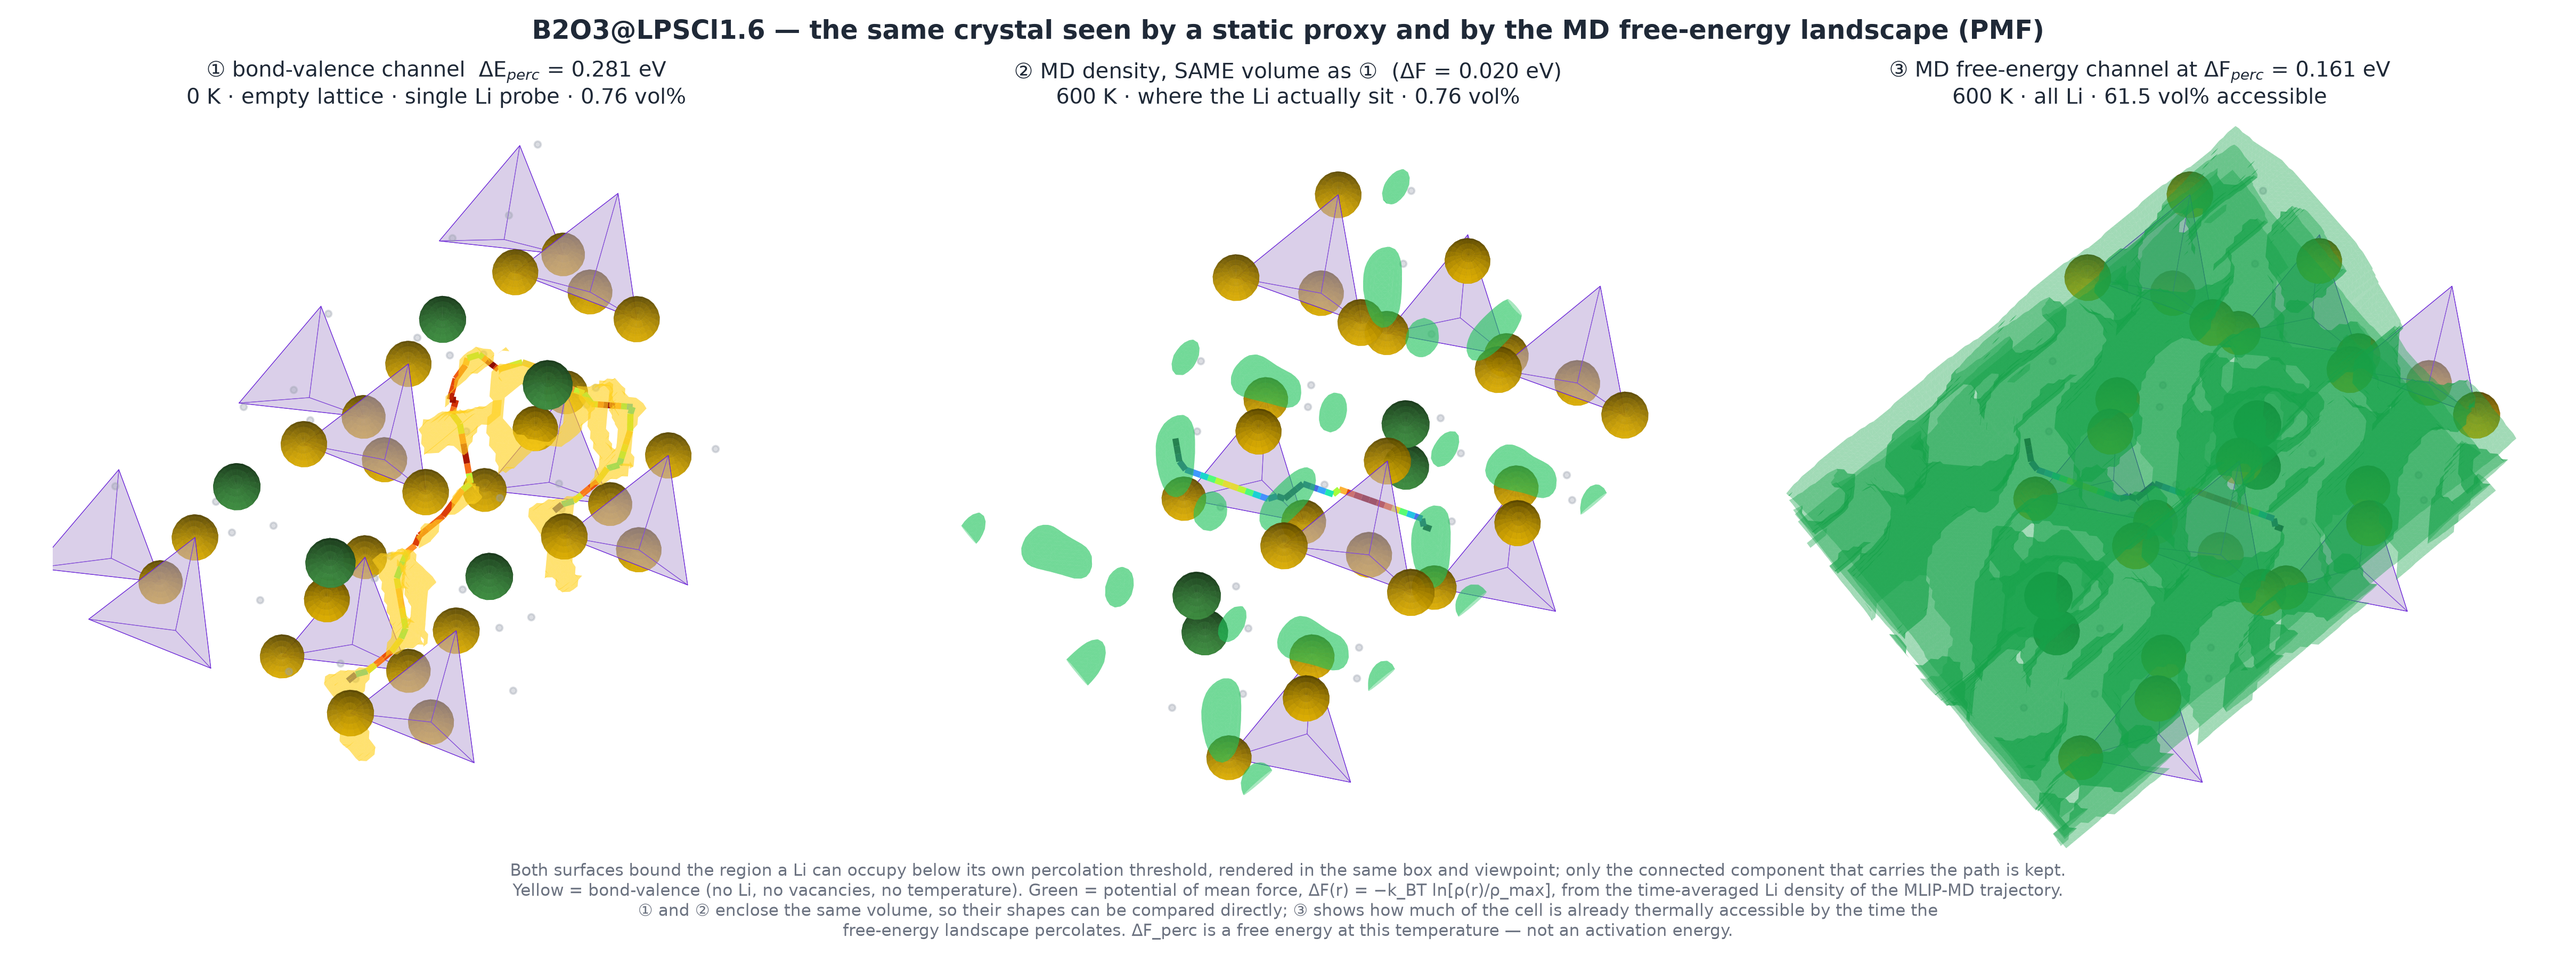
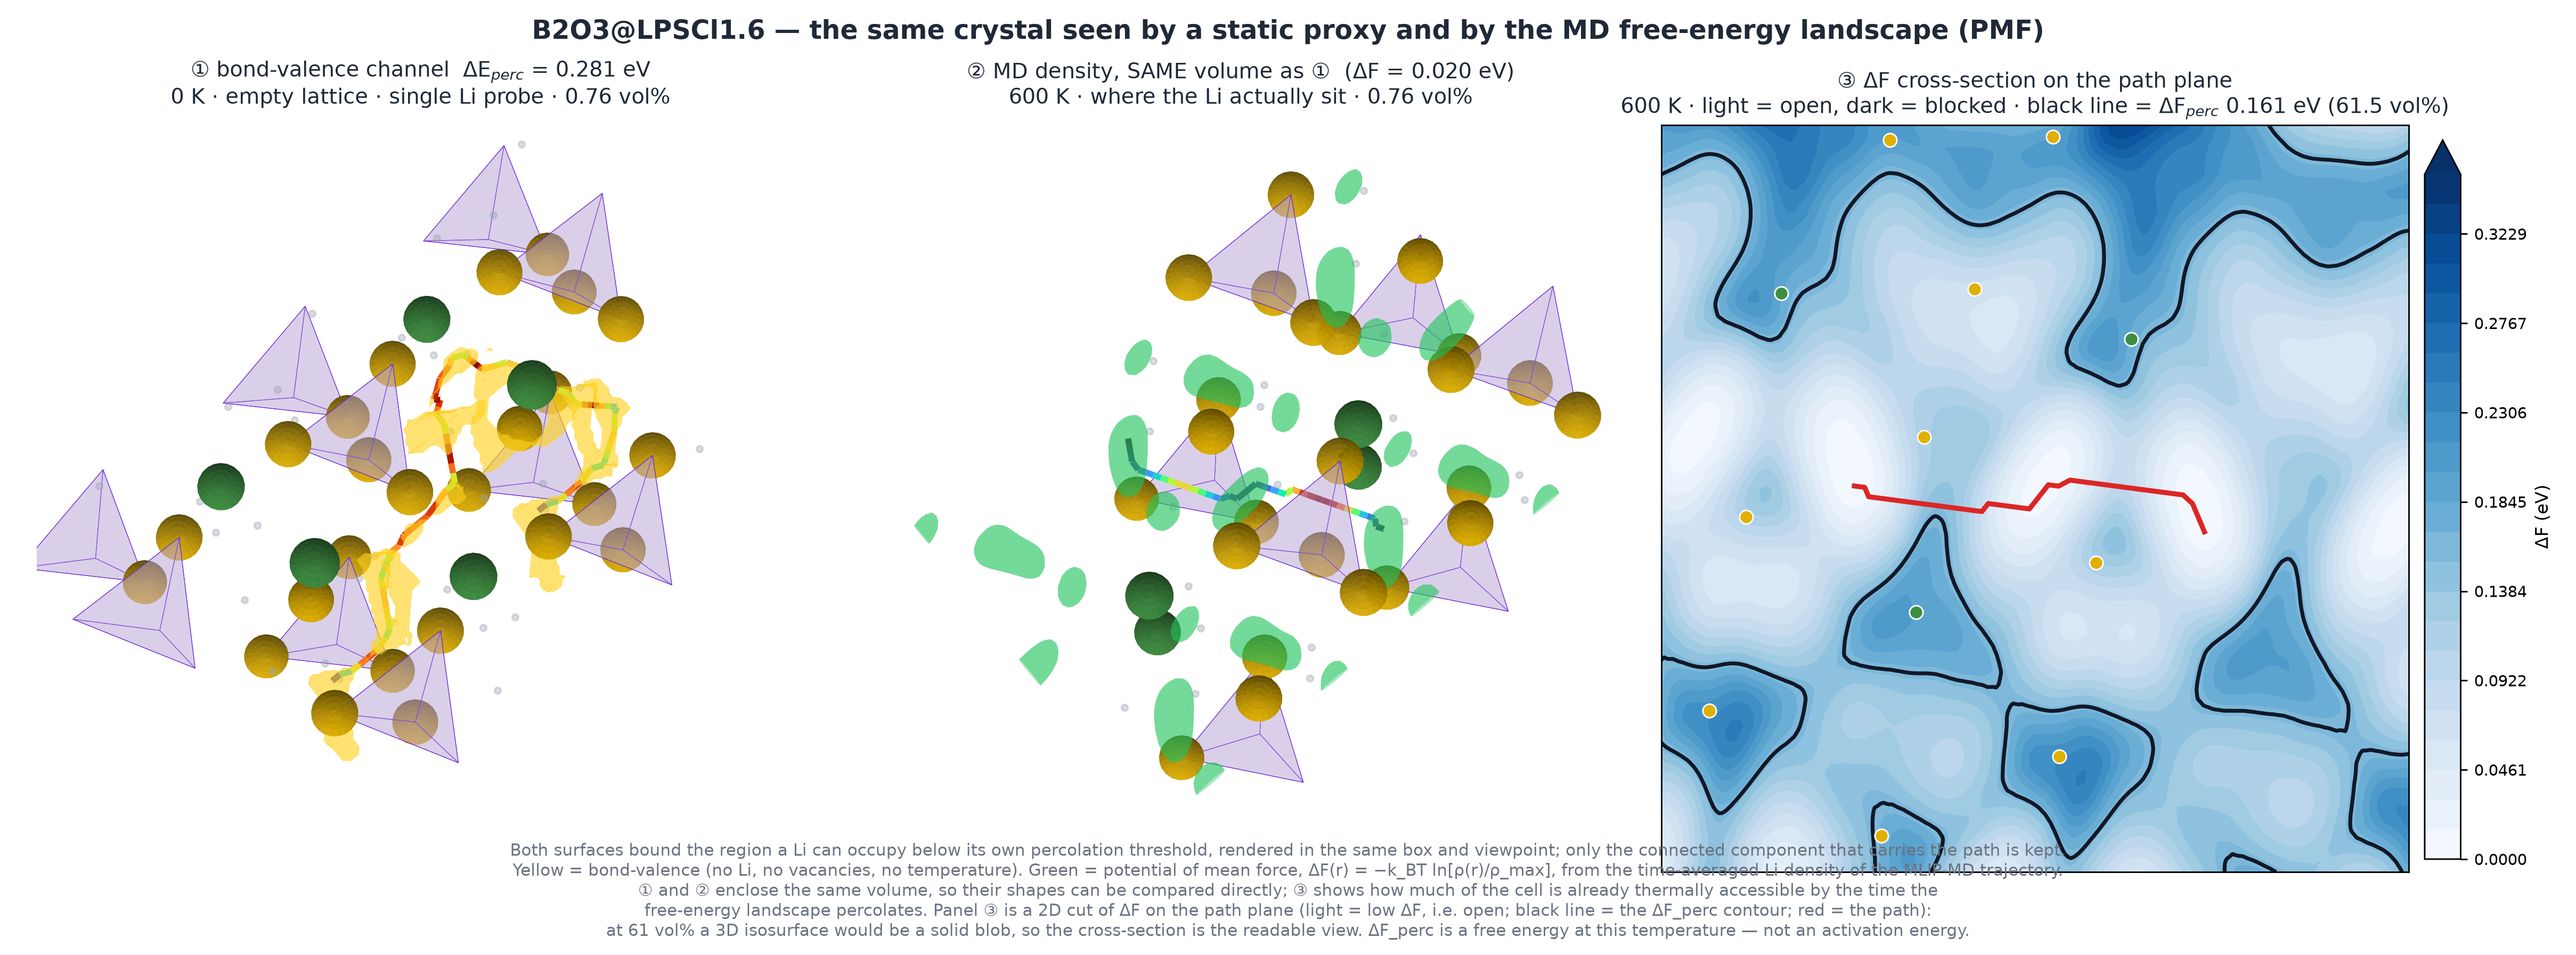
figures+webapp: 3D 패널3을 2D 단면 지도로(가독성) + 개념 첨부 날짜 구분

diff --git a/webapp/templates/concept.html b/webapp/templates/concept.html
@@ -40,8 +40,14 @@
 
 {% if imgs %}
 <div class="att-pane" id="att-img">
+  {% for grp in att_days %}
+  {% set gi = grp.files|selectattr('kind','equalto','image')|list %}
+  {% if gi %}
+  <div class="day-head"><span class="day-date">{{ grp.day }}</span>
+    <span class="day-rel">{{ grp.label }}</span>
+    <span class="muted" style="font-size:.72rem">{{ gi|length }}개</span></div>
   <div class="grid grid-3">
-  {% for f in imgs %}
+  {% for f in gi %}
     <div class="card att-card" data-rel="{{ f.rel }}" data-name="{{ f.name }}" data-kind="image">
       <div class="att-thumb"><img loading="lazy" src="/api/file/{{ f.rel }}" alt="{{ f.name }}"></div>
       <div class="att-meta">
@@ -57,13 +63,21 @@
     </div>
   {% endfor %}
   </div>
+  {% endif %}
+  {% endfor %}
 </div>
 {% endif %}
 
 {% if data %}
 <div class="att-pane" id="att-data" {% if imgs %}style="display:none"{% endif %}>
+  {% for grp in att_days %}
+  {% set gd = grp.files|rejectattr('kind','equalto','image')|list %}
+  {% if gd %}
+  <div class="day-head"><span class="day-date">{{ grp.day }}</span>
+    <span class="day-rel">{{ grp.label }}</span>
+    <span class="muted" style="font-size:.72rem">{{ gd|length }}개</span></div>
   <div class="grid grid-3">
-  {% for f in data %}
+  {% for f in gd %}
     <div class="card att-card" data-rel="{{ f.rel }}" data-name="{{ f.name }}" data-kind="{{ f.kind }}">
       <div class="att-icon">{{ '📊' if f.kind=='csv' else ('📕' if f.kind=='pdf' else '📦') }}</div>
       <div class="att-meta">
@@ -74,6 +88,8 @@
     </div>
   {% endfor %}
   </div>
+  {% endif %}
+  {% endfor %}
 </div>
 {% endif %}
 

diff --git a/tools/figures/fig_bv_vs_pmf_3d.py b/tools/figures/fig_bv_vs_pmf_3d.py
@@ -57,9 +57,28 @@ def keep_component(V, thr, seeds, lo, step, n):
     return np.where(mask, V, thr + 1.0), float(mask.mean())
 
 
-def draw(ax, verts, faces, atoms, cages, mic, shifts, lo, hi, path, e, color, view):
+def slab(V, big, nrm, lo, span, n, thick=5.0):
+    """**시선 방향으로 얇은 단면**만 남긴다 (통짜 덩어리 → 채널 단면).
+
+    ⚠ 왜 (2026-08-06, 1저자 지적 2회): 문턱에서 채널이 셀의 60~75% 라 등가면을 통째로
+      그리면 초록 덩어리가 되어 아무 정보가 없다. 모서리 도려내기(cutaway)도 잘린 면이
+      메시처럼 보여 실패. **시선 법선 방향 ±thick/2 슬랩**만 남기면 채널이 어떻게
+      이어지고 골격이 어디를 막는지가 단면으로 드러난다 (토모그래피 관례).
+    """
+    V = V.copy()
+    g = np.stack(np.meshgrid(*[np.linspace(lo[d], lo[d] + span[d], n[d])
+                               for d in range(3)], indexing="ij"), -1)
+    c = lo + span / 2
+    w = (g - c) @ nrm                       # 시선 법선 성분
+    V[np.abs(w) > thick / 2] = big
+    return V
+
+
+def draw(ax, verts, faces, atoms, cages, mic, shifts, lo, hi, path, e, color, view,
+         edge="none", alpha=0.40):
     ax.add_collection3d(Poly3DCollection(verts[faces], facecolor=color,
-                                         edgecolor="none", alpha=0.40, zsort="average"))
+                                         edgecolor=edge, lw=0.15, alpha=alpha,
+                                         zsort="average"))
     for i, (s, p) in enumerate(atoms):
         if s == "P":
             lig = [p + mic(q - p) for t, q in atoms
@@ -107,6 +126,7 @@ def main():
     ap.add_argument("--disp", default="LPSCl1.6")
     ap.add_argument("--pad", type=float, default=2.4)
     ap.add_argument("--nvox", type=int, default=110)
+
     ap.add_argument("--maxbox", type=float, default=16.0,
                     help="상자 한 변 상한 (Å) — 길쭉한 셀에서 시야 확보")
     ap.add_argument("--out", default="docs/figures/bv_vs_pmf_3d_modelc.png")
@@ -173,9 +193,9 @@ def main():
           f"(BV 채널 {100*fE:.2f}%) — 성분 필터 없음(고립 자리 표시)")
 
     vE, faE, _n, _v = marching_cubes(VE, level=rbv["E_perc"], spacing=tuple(step))
-    vF, faF, _n, _v = marching_cubes(VF, level=dFp, spacing=tuple(step))
+    vF = faF = None                          # 슬랩은 시선(nrm) 확정 후에 만든다
     vI, faI, _n, _v = marching_cubes(VFi, level=lvl_iso, spacing=tuple(step))
-    vE, vF, vI = vE + lo_bv, vF + lo, vI + lo
+    vE, vI = vE + lo_bv, vI + lo
 
     allp = rpm["cart"]
     c0 = allp.mean(0)
@@ -199,11 +219,37 @@ def main():
     ax2.set_title(f"② MD density, SAME volume as ①  (ΔF = {lvl_iso:.3f} eV)\n"
                   f"{a.T:.0f} K · where the Li actually sit · {100*fFi:.2f} vol%",
                   fontsize=11, color=INK)
-    ax3 = fig.add_subplot(1, 3, 3, projection="3d")
-    draw(ax3, vF, faF, atoms, cages, mic, shifts, lo, hi, rpm["cart"], rpm["e"],
-         "#16a34a", view)
-    ax3.set_title(f"③ MD free-energy channel at ΔF$_{{perc}}$ = {dFp:.3f} eV\n"
-                  f"{a.T:.0f} K · all Li · {100*fF:.1f} vol% accessible",
+    # ③ 2D 단면 지도 — 3D 등가면은 61 vol% 라 통짜 덩어리가 되어 정보가 없다
+    #   (2026-08-06 사용자 지적 2회: 통짜 → 도려내기(메시) → **단면 지도**로 확정).
+    #   경로 주평면 위 ΔF 를 색으로, ΔF_perc 등고선을 굵게, 경로를 겹친다.
+    ax3 = fig.add_subplot(1, 3, 3)
+    e1p, e2p = vt[0], vt[1]
+    gx = np.linspace(-span.max() / 2, span.max() / 2, 260)
+    GX, GY = np.meshgrid(gx, gx)
+    R = (c0 + GX[..., None] * e1p + GY[..., None] * e2p).reshape(-1, 3)
+    fr = (R @ np.linalg.inv(cell)) % 1.0
+    M = map_coordinates(F, (fr * np.array(F.shape)).T, order=1,
+                        mode="grid-wrap").reshape(GX.shape)
+    # 밝을수록 낮은 ΔF(= 열림), 어두울수록 막힘 — 초록 덧칠은 이중 부호화라 뺐다
+    im = ax3.contourf(GX, GY, M, levels=np.linspace(0, max(dFp * 2.2, 0.3), 24),
+                      cmap="Blues", extend="max")
+    ax3.contour(GX, GY, M, levels=[dFp], colors=["#111827"], linewidths=2.0)
+    P2 = (rpm["cart"] - c0) @ np.vstack([e1p, e2p]).T
+    ax3.plot(P2[:, 0], P2[:, 1], color="#dc2626", lw=2.6, zorder=5)
+    for s_, pp in atoms:                       # 평면 ±1.6 Å 안 음이온만
+        for sh in shifts:
+            v = pp + sh - c0
+            if abs(float(v @ vt[2])) > 1.6 or s_ in ("Li", "P"):
+                continue
+            x, y = float(v @ e1p), float(v @ e2p)
+            if abs(x) < span.max() / 2 and abs(y) < span.max() / 2:
+                ax3.plot(x, y, "o", ms=7, mfc=ATOM_C.get(s_, "#888"), mec="white", mew=0.8)
+    cb3 = fig.colorbar(im, ax=ax3, fraction=0.045, pad=0.02)
+    cb3.set_label("ΔF (eV)", fontsize=9); cb3.ax.tick_params(labelsize=8)
+    ax3.set_aspect("equal"); ax3.set_xticks([]); ax3.set_yticks([])
+    ax3.set_title(f"③ ΔF cross-section on the path plane\n"
+                  f"{a.T:.0f} K · light = open, dark = blocked · black line = "
+                  f"ΔF$_{{perc}}$ {dFp:.3f} eV ({100*fF:.1f} vol%)",
                   fontsize=11, color=INK)
 
     fig.suptitle(f"{a.disp} — the same crystal seen by a static proxy and by the "
@@ -217,7 +263,10 @@ def main():
              "from the time-averaged Li density of the MLIP-MD trajectory.\n"
              "① and ② enclose the same volume, so their shapes can be compared directly; "
              "③ shows how much of the cell is already thermally accessible by the time the\n"
-             "free-energy landscape percolates. ΔF_perc is a free energy at this temperature "
+             "free-energy landscape percolates. Panel ③ is a 2D cut of ΔF on the path plane "
+             "(light = low ΔF, i.e. open; black line = the ΔF_perc contour; red = the path):\n"
+             "at 61 vol% a 3D isosurface would be a solid blob, so the cross-section is the "
+             "readable view. ΔF_perc is a free energy at this temperature "
              "— not an activation energy.",
              ha="center", fontsize=8.6, color=MUT)
     fig.tight_layout(rect=[0, 0.055, 1, 0.95])

diff --git a/webapp/data.py b/webapp/data.py
@@ -2340,9 +2340,10 @@ def concept_attachments(cid: str) -> list[dict]:
             p = safe_repo_path(rel)
             if not p:
                 continue
-            out.append({"rel": rel, "name": p.name, "kind": _att_kind(rel),
-                        "src": "cited",
-                        "size_kb": round(p.stat().st_size / 1024, 1)})
+            st = p.stat()
+        out.append({"rel": rel, "name": p.name, "kind": _att_kind(rel), "src": "cited",
+                    "size_kb": round(st.st_size / 1024, 1), "mtime": int(st.st_mtime),
+                    "day": _dt.datetime.fromtimestamp(st.st_mtime).strftime("%Y-%m-%d")})
     for rel in _auto_matched(cid):                 # 규칙 자동 연결
         if rel in seen:
             continue
@@ -2350,8 +2351,10 @@ def concept_attachments(cid: str) -> list[dict]:
         if not p:
             continue
         seen.add(rel)
+        st = p.stat()
         out.append({"rel": rel, "name": p.name, "kind": _att_kind(rel), "src": "auto",
-                    "size_kb": round(p.stat().st_size / 1024, 1)})
+                    "size_kb": round(st.st_size / 1024, 1), "mtime": int(st.st_mtime),
+                    "day": _dt.datetime.fromtimestamp(st.st_mtime).strftime("%Y-%m-%d")})
 
     # 같은 이름 png ↔ csv 페어링 (하우스 관례: 그림과 Origin-ready CSV 가
     #   같은 stem — `_origin` 접미는 무시하고 비교). 페어된 CSV 는 이미지 카드에
@@ -2367,7 +2370,7 @@ def concept_attachments(cid: str) -> list[dict]:
                 host["pair"] = x
                 continue
         merged.append(x)
-    merged.sort(key=lambda x: (x["kind"] != "image", x["name"]))
+    merged.sort(key=lambda x: -x.get("mtime", 0))      # 최근순 (날짜 그룹용)
     return merged
 
 _UP_EXT = {".png", ".jpg", ".jpeg", ".svg", ".csv", ".json", ".xyz", ".vasp", ".cif", ".pdf"}

diff --git a/webapp/app.py b/webapp/app.py
@@ -366,7 +366,8 @@ def concept(cid):
     return render_template("concept.html", active="glossary", cid=cid,
                            term=term, raw_md=md, siblings=siblings, fallback_html=fallback,
                            papers=D.glossary_papers(cid),
-                           attachments=D.concept_attachments(cid))
+                           attachments=(_att := D.concept_attachments(cid)),
+                           att_days=D.gallery_days(_att))
 
 
 @app.route("/api/concept/<cid>")
